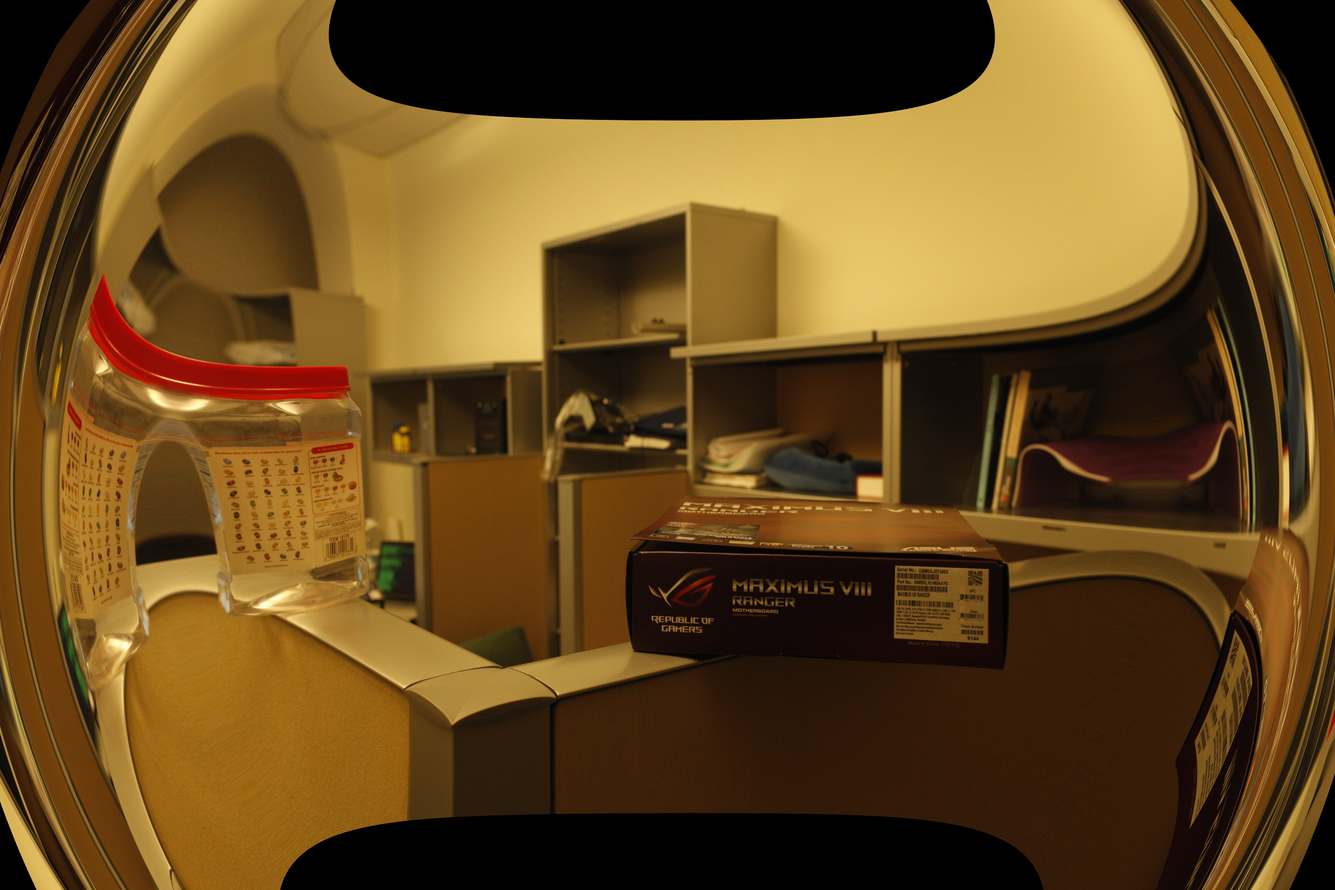
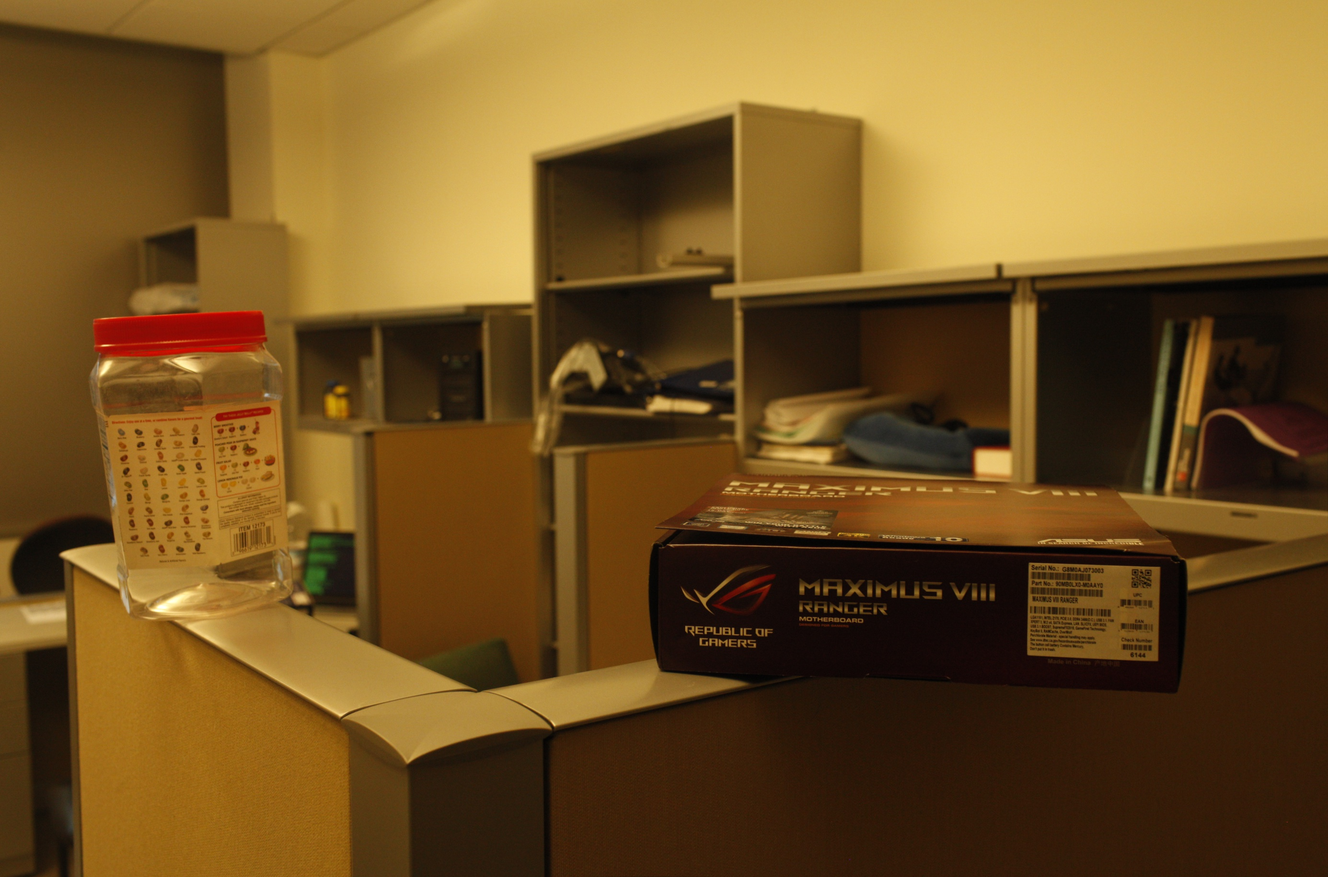
photo at the macbook screen and finally success!

diff --git a/undistort.py b/undistort.py
@@ -2,9 +2,9 @@ import cv2
 import numpy as np
 import os
 
-
-mtx = np.array([[  2.82828657e+03,0.00000000e+00,1.46260639e+03],[  0.00000000e+00,2.86745094e+03,9.78000755e+02],[  0.00000000e+00,0.00000000e+00,1.00000000e+00]])
-dist = np.array([[ -2.59349408e-01,2.40450821e+00,2.47497177e-03,4.83354522e-03,-1.18401952e+01]])
+ 
+mtx = np.array([[2.83973773e+03, 0.00000000e+00, 1.38947081e+03], [0.00000000e+00, 2.83695500e+03, 9.36984169e+02], [0.00000000e+00, 0.00000000e+00, 1.00000000e+00]])
+dist = np.array([[-0.12244297, 0.20499093, 0.00035033, -0.00058871, -0.13275741]])
 h,  w = 1856, 2784
 newcameramtx, roi=cv2.getOptimalNewCameraMatrix(mtx,dist,(w,h),1,(w,h))
 
@@ -17,5 +17,5 @@ for filename in files:
 		img = cv2.imread('multiview/'+filename)
 		dst = cv2.undistort(img, mtx, dist, None, newcameramtx)
 		x,y,w,h = roi
-		# dst = dst[y:y+h, x:x+w]
+		dst = dst[y:y+h, x:x+w]
 		cv2.imwrite('undistorted/'+filename,dst)
